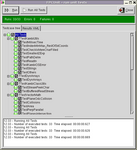
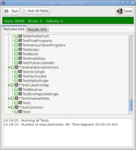
* new screenshot of test_kambi_units_screen, with GTK 2 and 86 tests
git-svn-id: https://svn.code.sf.net/p/castle-engine/code/trunk/www@4063 afe8dcc5-9094-451b-8773-5f495042a737

diff --git a/htdocs/kambi_vrml_game_engine.php b/htdocs/kambi_vrml_game_engine.php
@@ -426,7 +426,7 @@ script inside.
 (after all, it would have little sense, because all tests would succeed,
 unless there's some problem specific to your OS configuration),
 but I am generous enough to show you a snapshot of a happy test_kambi_units
-program after successfully running all 33 tests:<br>
+program after successfully running all 86 tests:<br>
 <?php echo
   medium_image_progs_demo('test_kambi_units_screen_demo.png', 'test_kambi_units', false)
 ?>
